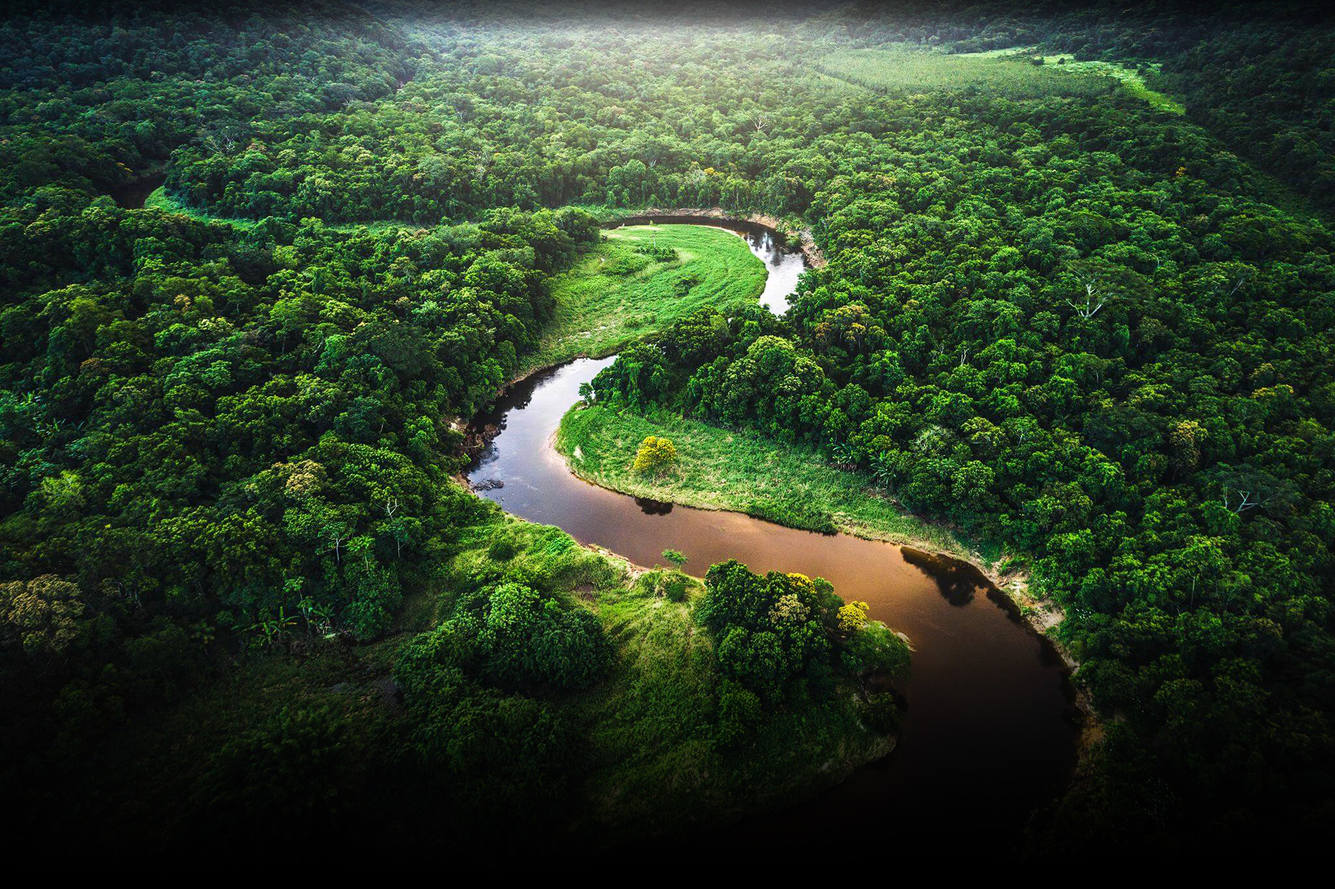
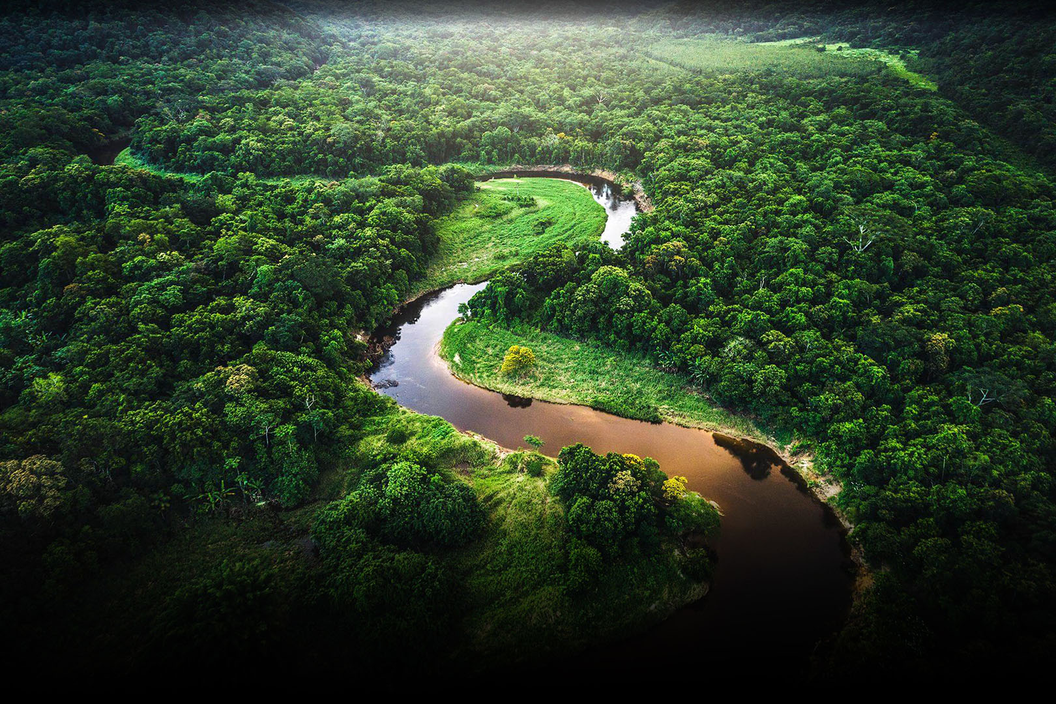
Images optimization

diff --git a/pages/knows.html b/pages/knows.html
@@ -42,7 +42,7 @@
 
     <main>
         <h1 class="conocimientos__title">Conocimientos</h1>
-        <img class="conocimientos__hero" src="../assets/network.png" alt="network">
+        <img class="conocimientos__hero" src="../assets/network.jpg" alt="network">
         <div class="conocimientos__container">
             <div class="conocimientos__list">
                 <h2 class="list__title">Frontend</h2>

diff --git a/README.md b/README.md
@@ -26,6 +26,8 @@
 
 - [x] Actualizar importacion de google fonts y limpiar head
 
+- [x] Optimizacion de imagenes pesadas
+
 - [ ] Revisar y limpiar "Spanglish"
 
 - [ ] Mejorar el responsive para whatch con MQ combinadas
